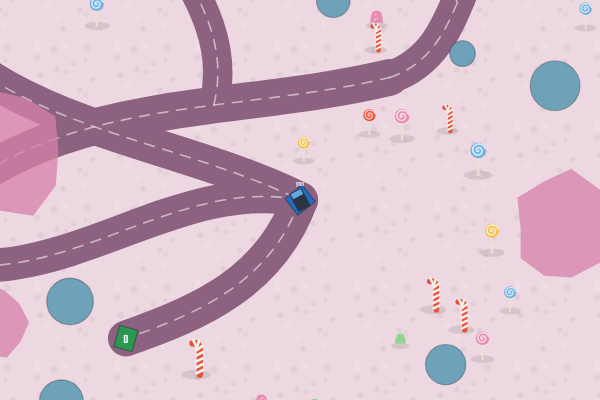
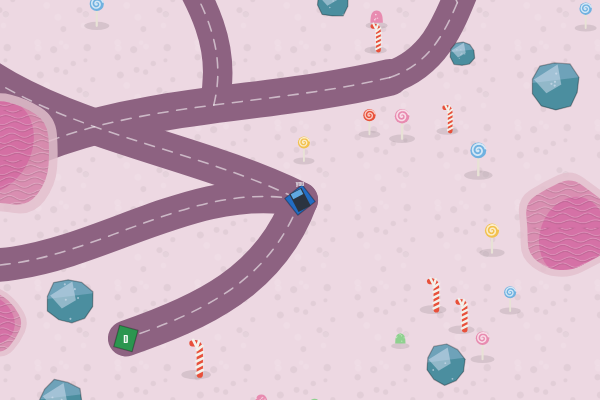
Render mud and rock more better beautifuller

diff --git a/src/game/render.ts b/src/game/render.ts
@@ -1,9 +1,9 @@
 import { getTheme, type TextureStyle } from "../level/themes.js";
-import type { Level, Warehouse } from "../level/types.js";
+import type { Level, MudObstacle, RockObstacle, Warehouse } from "../level/types.js";
 import type { CargoState } from "../physics/cargo.js";
 import type { TruckState } from "../physics/truck.js";
 import { mulberry32, randRange, seedFromString, type Rng } from "../util/rng.js";
-import { distance } from "../util/vec2.js";
+import { distance, type Vec2 } from "../util/vec2.js";
 import { drawProp } from "./props/index.js";
 
 function strokeRoad(ctx: CanvasRenderingContext2D, level: Level): void {
@@ -29,25 +29,257 @@ function strokeRoad(ctx: CanvasRenderingContext2D, level: Level): void {
   }
 }
 
-function drawObstacles(ctx: CanvasRenderingContext2D, level: Level): void {
-  for (const mud of level.muds) {
+// --- Obstacle textures -----------------------------------------------------
+// Mud and rocks are textured to sit better against the detailed scenery. All of
+// it is purely visual: physics still treat a rock as its circle and mud as its
+// polygon. Every random detail is derived from the obstacle's position (see
+// obstacleRng), so it's identical each frame and on replay and never draws from
+// the level's generation RNG - obstacle placement, and per-seed leaderboards,
+// are unaffected.
+
+/** Parse an "hsl(H S% L%)" palette color into channels to derive tones from. */
+function parseHsl(color: string): { h: number; s: number; l: number } {
+  const m = color.match(/hsl\(\s*([\d.-]+)\s+([\d.]+)%\s+([\d.]+)%/);
+  return m ? { h: parseFloat(m[1]!), s: parseFloat(m[2]!), l: parseFloat(m[3]!) } : { h: 0, s: 0, l: 50 };
+}
+
+function hslStr(h: number, s: number, l: number, a = 1): string {
+  const H = ((h % 360) + 360) % 360;
+  const S = Math.max(0, Math.min(100, s));
+  const L = Math.max(0, Math.min(100, l));
+  return a === 1
+    ? `hsl(${H.toFixed(0)} ${S.toFixed(0)}% ${L.toFixed(0)}%)`
+    : `hsl(${H.toFixed(0)} ${S.toFixed(0)}% ${L.toFixed(0)}% / ${a})`;
+}
+
+/** Position-keyed RNG so an obstacle's texture is stable across frames/replays
+ * without consuming the level's generation RNG. */
+function obstacleRng(pos: Vec2): Rng {
+  return mulberry32(seedFromString(`${Math.round(pos.x)}:${Math.round(pos.y)}`));
+}
+
+// Seamless rippled-water pattern, built once and reused for every puddle (like
+// the ground textures). Tint-neutral black/white so it reads on any mud color.
+const WATER_TILE = 80;
+let waterPatternCache: CanvasPattern | null | undefined;
+
+/** A tileable water texture: evenly spaced wavy lines, each a bright crest with
+ * a soft dark trough beneath, so light glints off the ripples. Two sine cycles
+ * across the tile and a 10px row pitch (80/8) keep it seamless in both axes;
+ * per-line phase/amplitude jitter (from a fixed seed) makes it read as organic
+ * water rather than mechanical stripes. */
+function waterPattern(ctx: CanvasRenderingContext2D): CanvasPattern | null {
+  if (waterPatternCache !== undefined) return waterPatternCache;
+  const tile = document.createElement("canvas");
+  tile.width = WATER_TILE;
+  tile.height = WATER_TILE;
+  const t = tile.getContext("2d");
+  if (!t) return (waterPatternCache = null);
+
+  const rng = mulberry32(0x7a7e12); // fixed, so the tile is stable across runs
+  t.lineCap = "round";
+  const wave = (y0: number, phase: number, amp: number, color: string, lw: number, dy: number): void => {
+    t.beginPath();
+    for (let x = 0; x <= WATER_TILE; x++) {
+      // 2 whole cycles across the tile width -> ends match -> seamless in x.
+      const yy = y0 + dy + Math.sin((x / WATER_TILE) * TAU * 2 + phase) * amp;
+      if (x === 0) t.moveTo(x, yy);
+      else t.lineTo(x, yy);
+    }
+    t.strokeStyle = color;
+    t.lineWidth = lw;
+    t.stroke();
+  };
+  for (let y0 = 0; y0 < WATER_TILE; y0 += 10) {
+    const phase = rng() * TAU;
+    const amp = 2 + rng() * 1.6;
+    wave(y0, phase, amp, "rgba(0,0,0,0.12)", 1.8, 1.4); // trough shadow
+    wave(y0, phase, amp, "rgba(255,255,255,0.32)", 1.4, 0); // crest highlight
+  }
+  waterPatternCache = ctx.createPattern(tile, "repeat");
+  return waterPatternCache;
+}
+
+/** Mud as a rounded puddle: a smooth curved silhouette (rounding the physics
+ * polygon's corners), a paler dried rim, a soft darker pool for depth, and a
+ * seamless rippled-water pattern across the surface. */
+function drawMud(ctx: CanvasRenderingContext2D, mud: MudObstacle, mudColor: string): void {
+  const base = parseHsl(mudColor);
+  const rng = obstacleRng(mud.pos);
+  const { x: cx, y: cy } = mud.pos;
+  const r = mud.radius;
+  const pts = mud.points;
+  const n = pts.length;
+
+  // Smooth, rounded silhouette through the polygon vertices: draw quadratic
+  // curves via edge midpoints, so the outline is a soft blob rather than an
+  // angular 12-gon. `scale` shrinks it toward the center (the physics polygon
+  // itself is unchanged). Slightly inside the polygon at corners, which reads as
+  // forgiving - matching the mud hitbox's own inset.
+  const roundedPath = (scale: number): void => {
+    const px = (i: number): number => cx + (pts[i]!.x - cx) * scale;
+    const py = (i: number): number => cy + (pts[i]!.y - cy) * scale;
     ctx.beginPath();
-    mud.points.forEach((p, i) => (i === 0 ? ctx.moveTo(p.x, p.y) : ctx.lineTo(p.x, p.y)));
+    ctx.moveTo((px(n - 1) + px(0)) / 2, (py(n - 1) + py(0)) / 2);
+    for (let i = 0; i < n; i++) {
+      const j = (i + 1) % n;
+      ctx.quadraticCurveTo(px(i), py(i), (px(i) + px(j)) / 2, (py(i) + py(j)) / 2);
+    }
     ctx.closePath();
-    ctx.fillStyle = level.palette.mud;
-    ctx.globalAlpha = 0.75;
-    ctx.fill();
-    ctx.globalAlpha = 1;
+  };
+
+  ctx.save();
+  ctx.globalAlpha = 0.82; // semi-transparent so the ground reads through
+
+  // Drier, paler rim, then the wet body inset over it.
+  roundedPath(1);
+  ctx.fillStyle = hslStr(base.h + 4, base.s * 0.75, base.l + 14);
+  ctx.fill();
+  roundedPath(0.86);
+  ctx.fillStyle = hslStr(base.h, base.s, base.l);
+  ctx.fill();
+
+  // Confine the depth and ripple pattern to the wet body.
+  roundedPath(0.86);
+  ctx.clip();
+
+  // A soft darker pool for depth (one shape, off-center - not scattered noise).
+  ctx.beginPath();
+  ctx.ellipse(cx + (rng() - 0.5) * r * 0.3, cy + (rng() - 0.5) * r * 0.3, r * 0.62, r * 0.5, rng() * TAU, 0, TAU);
+  ctx.fillStyle = hslStr(base.h - 6, base.s + 8, base.l - 13, 0.5);
+  ctx.fill();
+
+  // The watery texture: the seamless ripple pattern, filled across the puddle.
+  // A per-patch offset (from this patch's RNG) shifts the pattern phase so
+  // neighbouring puddles don't share the exact same ripple alignment.
+  const water = waterPattern(ctx);
+  if (water) {
+    const ox = rng() * WATER_TILE;
+    const oy = rng() * WATER_TILE;
+    ctx.translate(-ox, -oy); // shift where the (clip-masked) pattern samples
+    ctx.fillStyle = water;
+    ctx.fillRect(cx - r - WATER_TILE + ox, cy - r - WATER_TILE + oy, r * 2 + WATER_TILE * 2, r * 2 + WATER_TILE * 2);
   }
 
-  for (const rock of level.rocks) {
+  ctx.restore();
+}
+
+/** Rock with a bumpy silhouette (the collision stays the circle underneath),
+ * flat lit/shadow facets for volume, and standout accent veins and grit that
+ * read even when the base rock color matches the surrounding ground. */
+function drawRock(ctx: CanvasRenderingContext2D, rock: RockObstacle, rockColor: string): void {
+  const base = parseHsl(rockColor);
+  const rng = obstacleRng(rock.pos);
+  const { x: cx, y: cy } = rock.pos;
+  const r = rock.radius;
+
+  // Bumpy outline within ~0.9-1.08r, centered on the circular hitbox so it
+  // still lines up with the (unchanged) circle collision.
+  const verts: Vec2[] = [];
+  const n = 10;
+  const start = rng() * TAU;
+  for (let i = 0; i < n; i++) {
+    const a = start + (i / n) * TAU;
+    const rad = r * (0.9 + rng() * 0.18);
+    verts.push({ x: cx + Math.cos(a) * rad, y: cy + Math.sin(a) * rad });
+  }
+  const outline = (): void => {
     ctx.beginPath();
-    ctx.arc(rock.pos.x, rock.pos.y, rock.radius, 0, Math.PI * 2);
-    ctx.fillStyle = level.palette.rock;
-    ctx.fill();
-    ctx.strokeStyle = "rgba(0,0,0,0.25)";
-    ctx.lineWidth = 2;
+    verts.forEach((p, i) => (i === 0 ? ctx.moveTo(p.x, p.y) : ctx.lineTo(p.x, p.y)));
+    ctx.closePath();
+  };
+
+  // Accents: strong lightness contrast plus a modest hue shift, so veins and
+  // facets stand out even when the rock body blends into the ground.
+  const lit = hslStr(base.h + 16, Math.min(72, base.s + 16), Math.min(90, base.l + 32));
+  const shadow = hslStr(base.h - 12, Math.min(80, base.s + 18), Math.max(10, base.l - 24));
+  const vein = hslStr(base.h + 24, Math.max(30, Math.min(55, base.s + 20)), Math.min(93, base.l + 40));
+
+  outline();
+  ctx.fillStyle = rockColor;
+  ctx.fill();
+
+  ctx.save();
+  ctx.clip();
+
+  // Shadow facet over the lower-right.
+  ctx.beginPath();
+  ctx.moveTo(cx - r, cy - r * 0.1);
+  ctx.lineTo(cx + r, cy - r * 0.35);
+  ctx.lineTo(cx + r, cy + r);
+  ctx.lineTo(cx - r, cy + r);
+  ctx.closePath();
+  ctx.globalAlpha = 0.5;
+  ctx.fillStyle = shadow;
+  ctx.fill();
+
+  // Lit facet plane toward the top-left light.
+  ctx.beginPath();
+  ctx.moveTo(cx - r * 0.85, cy - r * 0.25);
+  ctx.lineTo(cx + r * 0.1, cy - r * 0.85);
+  ctx.lineTo(cx + r * 0.25, cy - r * 0.05);
+  ctx.lineTo(cx - r * 0.35, cy + r * 0.3);
+  ctx.closePath();
+  ctx.fillStyle = lit;
+  ctx.fill();
+  ctx.globalAlpha = 1;
+
+  // 1-2 bright veins wandering across the face.
+  const veinCount = 1 + (rng() < 0.5 ? 1 : 0);
+  ctx.strokeStyle = vein;
+  ctx.lineWidth = Math.max(1, r * 0.06);
+  ctx.lineCap = "round";
+  ctx.globalAlpha = 0.75;
+  for (let vI = 0; vI < veinCount; vI++) {
+    let a = rng() * TAU;
+    let px = cx + Math.cos(a) * r;
+    let py = cy + Math.sin(a) * r;
+    ctx.beginPath();
+    ctx.moveTo(px, py);
+    for (let s = 0; s < 3; s++) {
+      a += (rng() - 0.5) * 1.3;
+      const step = r * (0.45 + rng() * 0.5);
+      px += Math.cos(a) * step;
+      py += Math.sin(a) * step;
+      ctx.lineTo(px, py);
+    }
     ctx.stroke();
+  }
+
+  // A few grit speckles in the lit accent.
+  const speckles = 3 + Math.floor(rng() * 4);
+  ctx.fillStyle = lit;
+  ctx.globalAlpha = 0.6;
+  for (let i = 0; i < speckles; i++) {
+    const a = rng() * TAU;
+    const rr = rng() * r * 0.8;
+    ctx.beginPath();
+    ctx.arc(cx + Math.cos(a) * rr, cy + Math.sin(a) * rr, Math.max(0.8, r * 0.045), 0, TAU);
+    ctx.fill();
+  }
+  ctx.globalAlpha = 1;
+  ctx.restore();
+
+  // Dark outline on the bumpy silhouette.
+  outline();
+  ctx.strokeStyle = "rgba(0,0,0,0.28)";
+  ctx.lineWidth = 2;
+  ctx.stroke();
+}
+
+function drawObstacles(ctx: CanvasRenderingContext2D, level: Level, bounds: Bounds): void {
+  const margin = 40;
+  const visible = (pos: Vec2, r: number): boolean =>
+    pos.x + r >= bounds.minX - margin &&
+    pos.x - r <= bounds.maxX + margin &&
+    pos.y + r >= bounds.minY - margin &&
+    pos.y - r <= bounds.maxY + margin;
+
+  for (const mud of level.muds) {
+    if (visible(mud.pos, mud.radius)) drawMud(ctx, mud, level.palette.mud);
+  }
+  for (const rock of level.rocks) {
+    if (visible(rock.pos, rock.radius)) drawRock(ctx, rock, level.palette.rock);
   }
 }
 
@@ -479,18 +711,21 @@ export function renderWorld(
   }
 
   strokeRoad(ctx, level);
-  drawObstacles(ctx, level);
-  drawHouses(ctx, level);
-  // Scenery sits on the grass (placed off-road), drawn under the warehouses so
-  // gameplay markers stay on top. Cull to the visible world rect.
+  // Visible world rect, used to cull both obstacles and scenery to what's on
+  // screen (weekly maps have hundreds of each).
   const halfW = canvasW / 2 / zoom;
   const halfH = canvasH / 2 / zoom;
-  drawScenery(ctx, level, {
+  const viewBounds: Bounds = {
     minX: camera.x - halfW,
     maxX: camera.x + halfW,
     minY: camera.y - halfH,
     maxY: camera.y + halfH,
-  });
+  };
+  drawObstacles(ctx, level, viewBounds);
+  drawHouses(ctx, level);
+  // Scenery sits on the grass (placed off-road), drawn under the warehouses so
+  // gameplay markers stay on top.
+  drawScenery(ctx, level, viewBounds);
   drawWarehouses(ctx, level, visited);
 
   for (const ghost of ghosts) {

diff --git a/README.md b/README.md
@@ -12,7 +12,14 @@ What's implemented:
   `YYYY-MM-DD`): hub placement, a connected Bezier-curve road network with a
   few branching dead ends, 4-10 warehouses per level (one base marked `B`, one
   destination marked `D`, the rest pickups marked `W` that must all be visited
-  before delivery), rock/mud obstacles, and a seeded color palette. A pickup is
+  before delivery), rock/mud obstacles, and a seeded color palette. Obstacles
+  are textured off the seeded palette to sit against the detailed scenery -
+  rocks as bumpy stones with lit/shadow facets and standout accent veins, mud as
+  rounded puddles (its polygon corners smoothed into a soft blob) with a drier
+  rim, a darker pooled core, and a seamless rippled-water pattern (a tiled
+  texture in the same vein as the ground textures) for the wet surface - all
+  purely visual, derived from each obstacle's position so it's replay-stable and
+  never shifts placement (the circle/polygon hitboxes are unchanged). A pickup is
   collected when the truck actually overlaps the building (a rotated-rectangle
   hitbox that accounts for each warehouse's size, rotation, and the truck's
   radius, so collection matches what you see); once collected it turns into a
